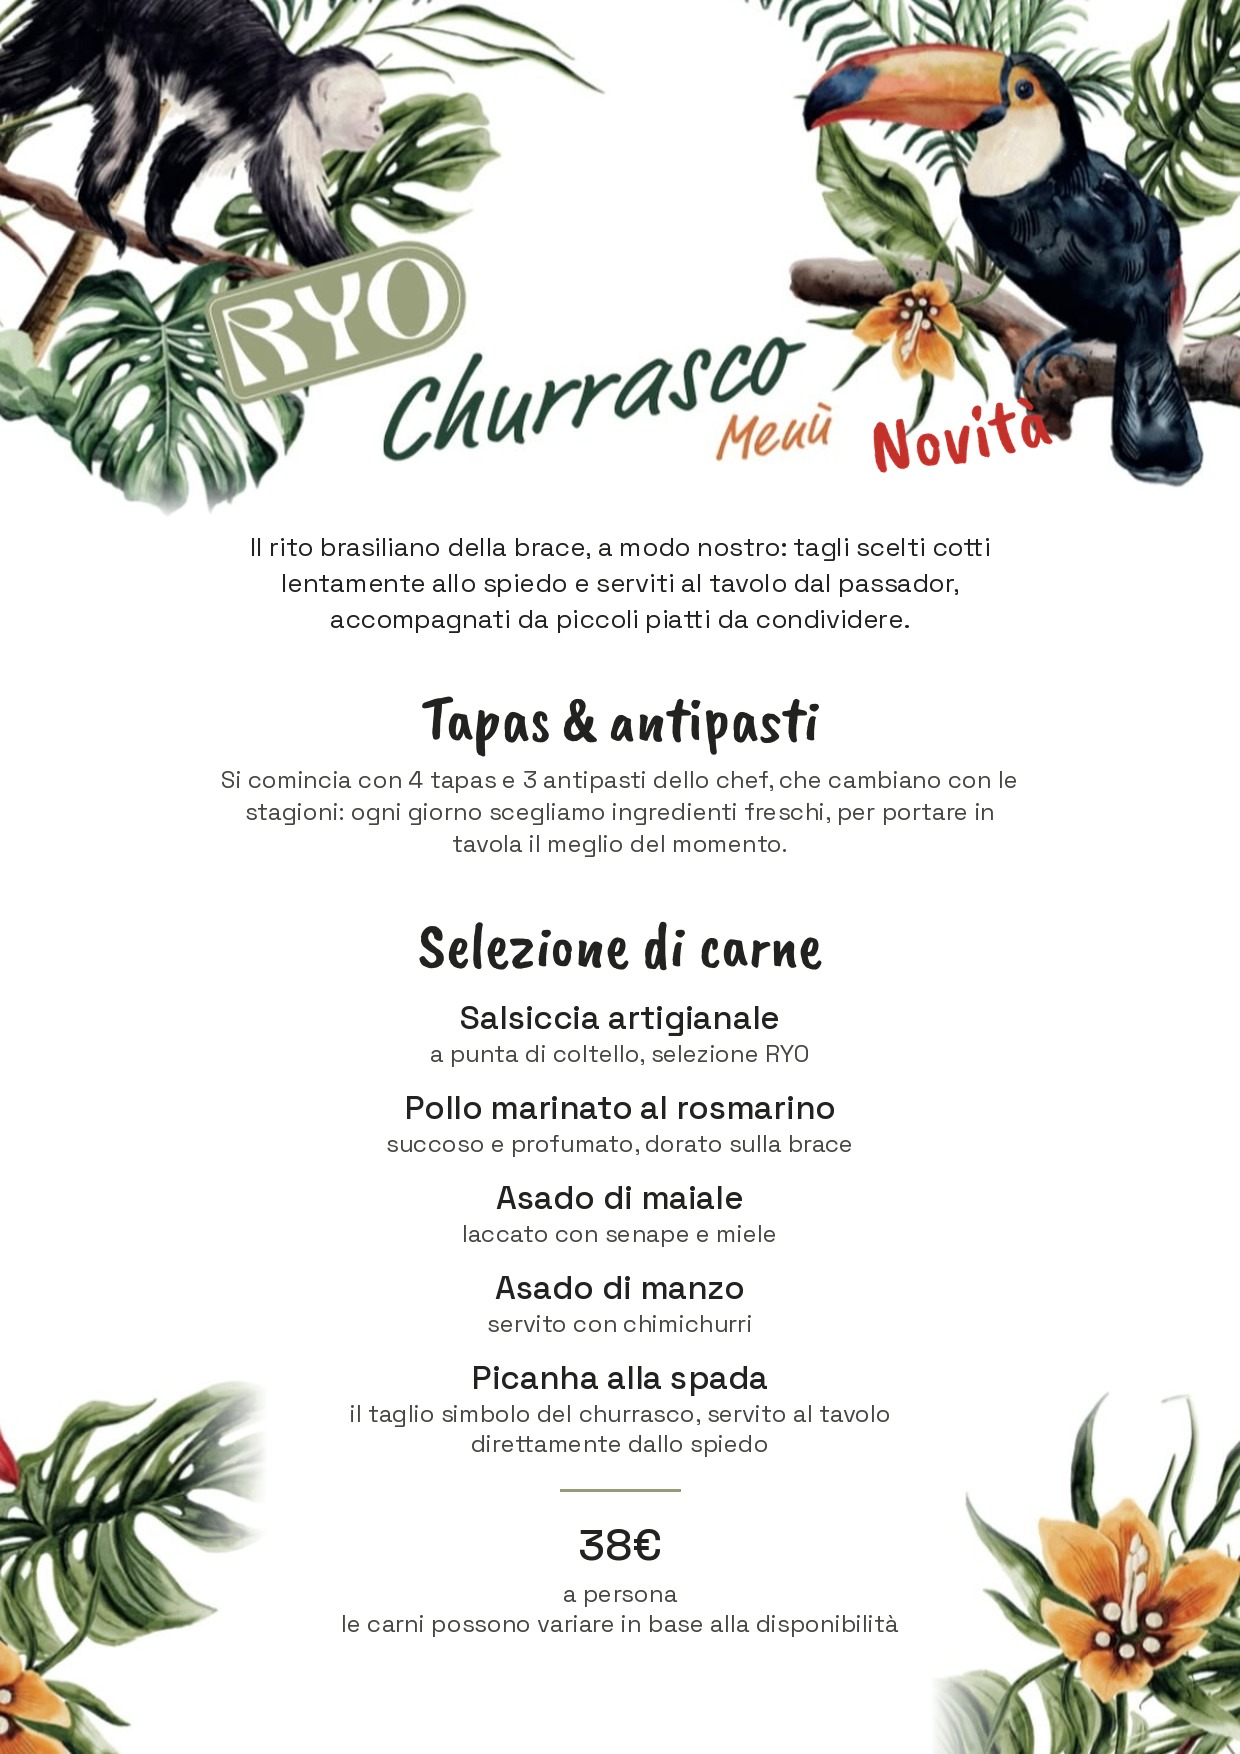
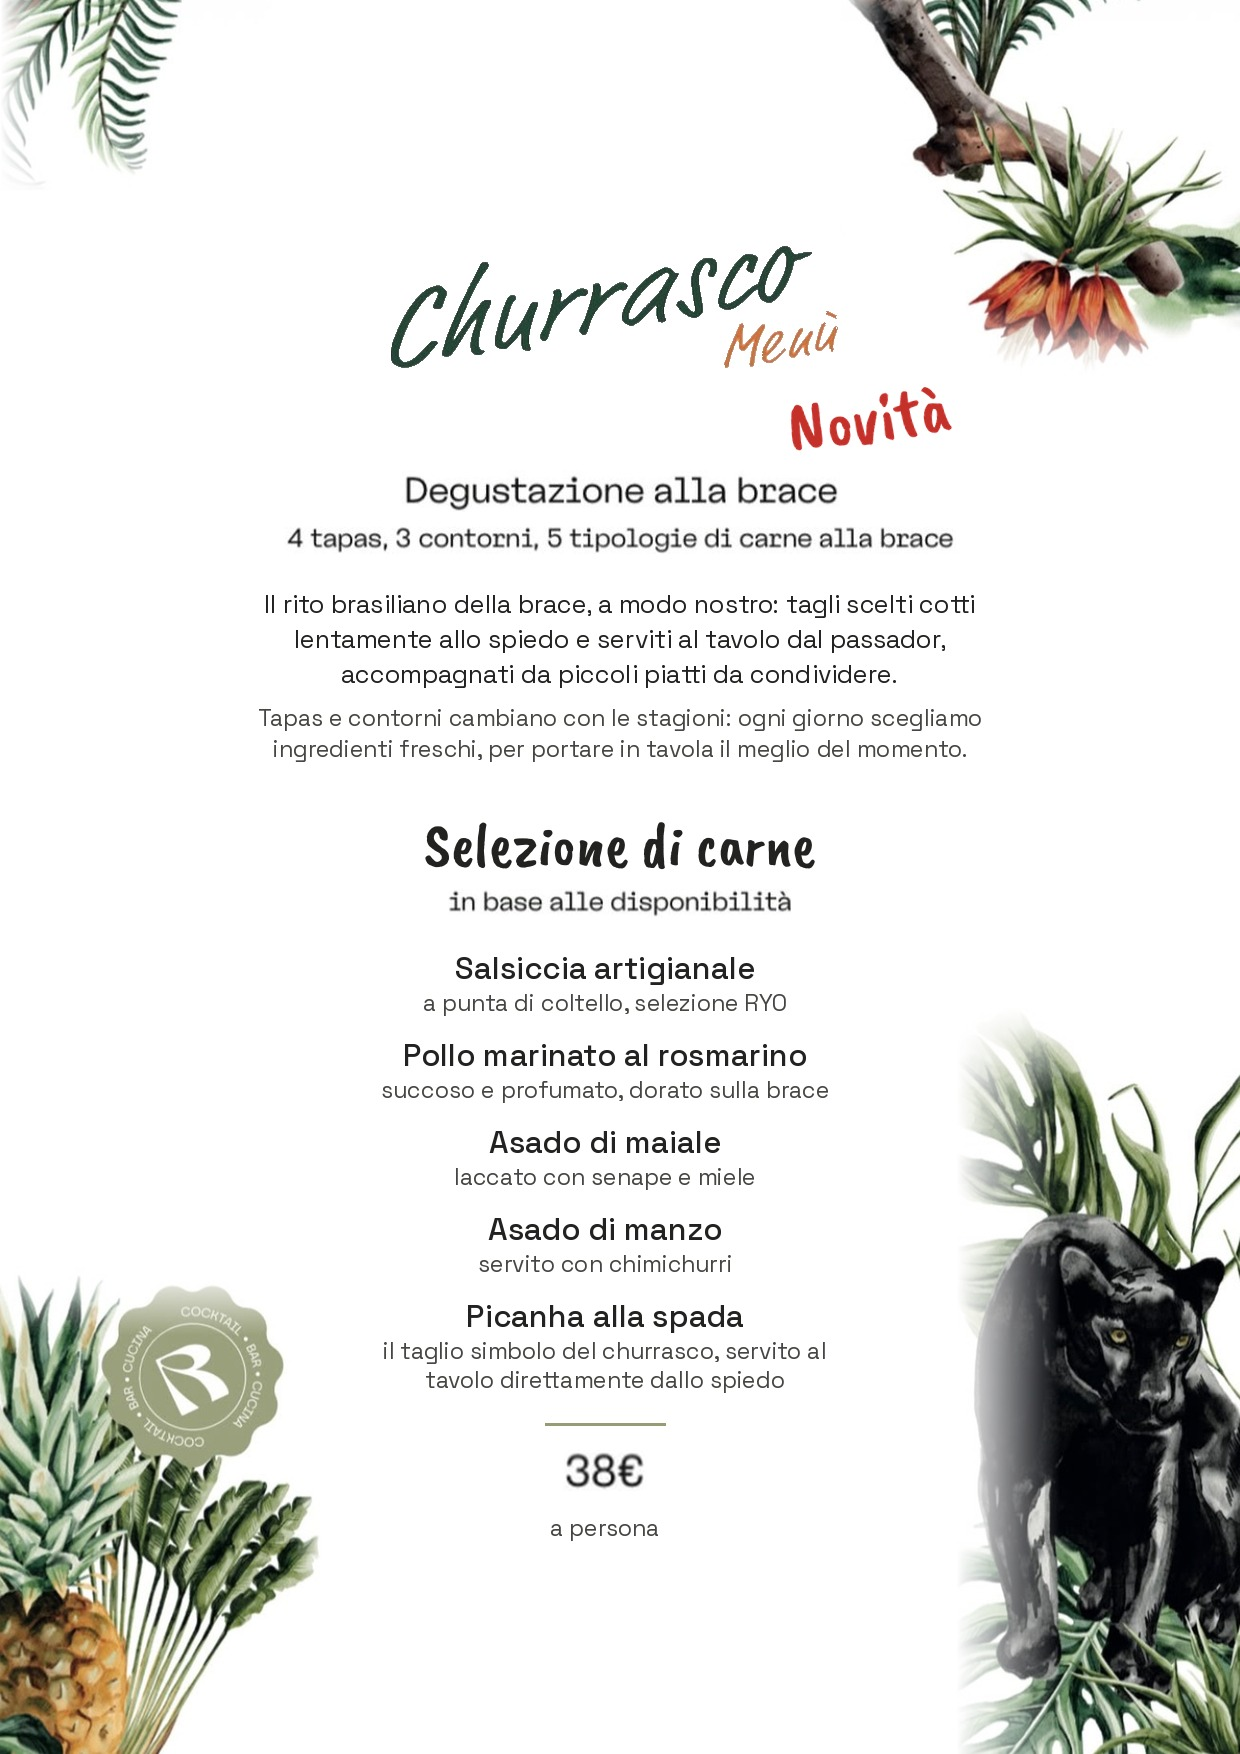
Menu Churrasco: pantera al posto di scimmia e tucano, righe originali del vecchio menu, decorazioni sfumate
Claude-Session: https://claude.ai/code/session_01TYJfJFwrL1SFJdaVhPFhyR

diff --git a/ryo-web/scripts/menu-churrasco.py b/ryo-web/scripts/menu-churrasco.py
@@ -1,13 +1,14 @@
 """
-Menu Churrasco in una pagina, nello stile del menu à la carte: l'intestazione originale
-(scimmia, tucano, timbro RYO, «Churrasco Menù»), la scritta «Novità» in rosso, un'intro sul
-concept, tapas e antipasti di stagione, la selezione di carni e il prezzo. In basso le foglie e
-il fiore arancio delle altre pagine del menu.
+Menu Churrasco in una pagina, nello stile del menu à la carte: stessi acquerelli (qui la pantera
+e l'ananas col sigillo RYO della pagina Dulce, il ramo con i fiori rossi e le palme), la scritta
+«Churrasco Menù» e le righe del vecchio menu (degustazione, 4 tapas e 3 contorni, prezzo),
+«Novità» in rosso, un'intro sul concept e la selezione di carni.
 
   python3 scripts/menu-churrasco.py   (scrive scripts/menu-pdf/churrasco-menu.jpg)
 """
 from pathlib import Path
 
+import numpy as np
 from PIL import Image, ImageChops, ImageDraw, ImageFont
 
 ROOT = Path(__file__).resolve().parent.parent
@@ -18,15 +19,15 @@ OUT = PAGES / "churrasco-menu.jpg"
 INK = (34, 34, 32)  # testi del menu
 SOFT = (70, 70, 66)  # descrizioni
 RED = (196, 48, 42)
-OLIVE = (152, 156, 118)  # come le icone e il timbro
+OLIVE = (152, 156, 118)  # come le icone e il sigillo
 
 INTRO = (
     "Il rito brasiliano della brace, a modo nostro: tagli scelti cotti lentamente allo spiedo "
     "e serviti al tavolo dal passador, accompagnati da piccoli piatti da condividere."
 )
 STAGIONE = (
-    "Si comincia con 4 tapas e 3 antipasti dello chef, che cambiano con le stagioni: "
-    "ogni giorno scegliamo ingredienti freschi, per portare in tavola il meglio del momento."
+    "Tapas e contorni cambiano con le stagioni: ogni giorno scegliamo ingredienti freschi, "
+    "per portare in tavola il meglio del momento."
 )
 CARNI = [
     ("Salsiccia artigianale", "a punta di coltello, selezione RYO"),
@@ -49,90 +50,119 @@ def wrap(draw, text, font, width):
     return lines + [cur]
 
 
+def soften(piece, top=0, bottom=0, left=0, right=0):
+    """Sfuma nel bianco i lati indicati, così le decorazioni ritagliate non mostrano il taglio."""
+    a = np.asarray(piece).astype(float)
+    h, w = a.shape[:2]
+    k = np.ones((h, w))
+    for n, axis, rev in ((top, 0, False), (bottom, 0, True), (left, 1, False), (right, 1, True)):
+        if not n:
+            continue
+        ramp = np.clip(np.arange(h if axis == 0 else w) / n, 0, 1)
+        ramp = ramp[::-1] if rev else ramp
+        k *= ramp[:, None] if axis == 0 else ramp[None, :]
+    a = 255 - (255 - a) * k[..., None]
+    return Image.fromarray(a.astype(np.uint8))
+
+
 def main():
     p1 = Image.open(PAGES / "pagina-1.jpg").convert("RGB")
-    p2 = Image.open(PAGES / "pagina-2.jpg").convert("RGB")
     p3 = Image.open(PAGES / "pagina-3.jpg").convert("RGB")
+    p4 = Image.open(PAGES / "pagina-4.jpg").convert("RGB")
     W, H = p1.size
     page = Image.new("RGB", (W, H), "white")
-    page.paste(p1.crop((0, 0, W, 520)), (0, 0))  # intestazione originale con «Churrasco Menù»
-    page.paste(Image.new("RGB", (450, 50), "white"), (395, 470))  # via l'inizio di «Degustazione alla brace»
-    fade = Image.linear_gradient("L").resize((W, 50))  # foglie e coda del tucano sfumano nel bianco
-    page.paste(Image.new("RGB", (W, 50), "white"), (0, 470), fade)
 
-    def deco(src, box, at, soft=110, side=None):
-        """Decorazione presa da un'altra pagina: il bordo alto sfuma nel bianco, così non si vede il taglio."""
-        piece = src.crop(box)
-        white = Image.new("RGB", piece.size, "white")
-        mask = Image.linear_gradient("L").rotate(180).resize((piece.width, soft))
-        white.paste(piece.crop((0, soft, piece.width, piece.height)), (0, soft))
-        white.paste(piece.crop((0, 0, piece.width, soft)), (0, 0), Image.eval(mask, lambda v: 255 - v))
-        if side:  # anche il bordo laterale verso il testo sfuma
-            sm = Image.linear_gradient("L").rotate(90 if side == "right" else -90).resize((90, piece.height))
-            x = piece.width - 90 if side == "right" else 0
-            white.paste(Image.new("RGB", (90, piece.height), "white"), (x, 0), sm)
+    def deco(piece, at, scale=1.0):
+        if scale != 1:
+            piece = piece.resize((round(piece.width * scale), round(piece.height * scale)), Image.LANCZOS)
         layer = Image.new("RGB", (W, H), "white")
-        layer.paste(white, at)
+        layer.paste(piece, at)
         return ImageChops.multiply(page, layer)
 
-    page = deco(p3, (0, 1290, 268, H), (0, 1290), side="right")  # monstera in basso a sinistra
-    page = deco(p2, (930, 1360, W, H), (930, 1360), side="left")  # fiore arancio in basso a destra
+    S = 0.8  # le decorazioni un po' più piccole della pagina Dulce, per lasciare spazio al testo
+    # in alto: ramo con i fiori rossi a destra, palme a sinistra (dalla pagina dei Primi, specchiate)
+    flower = soften(p4.crop((740, 0, W, 470)), bottom=90, left=60)
+    page = deco(flower, (W - round(flower.width * S), 0), S)
+    # solo le foglie, sopra il titolo «Riso amazzonico» della pagina dei Primi
+    palms = soften(p3.crop((900, 0, W, 240)), bottom=90, right=70).transpose(Image.FLIP_LEFT_RIGHT)
+    page = deco(palms, (0, 0), S)
+    # in basso: pantera tra le foglie a destra, ananas col sigillo RYO a sinistra
+    panther = soften(p4.crop((885, 820, W, H)), top=110, left=130)  # da x 885: niente lettere dei dolci
+    page = deco(panther, (W - round(panther.width * S), H - round(panther.height * S)), S)
+    pine = soften(p4.crop((0, 1140, 410, H)), top=90, right=40)
+    page = deco(pine, (0, H - round(pine.height * S)), S)
+
+    # «Churrasco Menù» dell'intestazione originale: solo le lettere, senza il timbro e le foglie dietro
+    t = np.asarray(p1.crop((378, 322, 848, 474))).astype(int)
+    lum = t.mean(axis=2)
+    letters = (lum < 115) | ((t[..., 0] > 175) & (t[..., 1] < 175) & (t[..., 2] < 150) & (t[..., 0] - t[..., 2] > 60))
+    t[~letters] = 255
+    t[:80, 430:] = 255  # un ramo del tucano dopo la «o» di Churrasco
+    title = Image.fromarray(t.astype(np.uint8))
+    page = deco(title, (round(W / 2 - title.width / 2), 230))
 
     d = ImageDraw.Draw(page)
-    brush = ImageFont.truetype(str(FONTS / "CaveatBrush-Regular.ttf"), 78)
-    head = ImageFont.truetype(str(FONTS / "CaveatBrush-Regular.ttf"), 64)
-    name = ImageFont.truetype(str(FONTS / "SpaceGrotesk-Medium.ttf"), 33)
-    desc = ImageFont.truetype(str(FONTS / "SpaceGrotesk-Regular.ttf"), 24)
-    body = ImageFont.truetype(str(FONTS / "SpaceGrotesk-Regular.ttf"), 26)
+    brush = ImageFont.truetype(str(FONTS / "CaveatBrush-Regular.ttf"), 70)
+    head = ImageFont.truetype(str(FONTS / "CaveatBrush-Regular.ttf"), 62)
+    name = ImageFont.truetype(str(FONTS / "SpaceGrotesk-Medium.ttf"), 31)
+    desc = ImageFont.truetype(str(FONTS / "SpaceGrotesk-Regular.ttf"), 23)
+    body = ImageFont.truetype(str(FONTS / "SpaceGrotesk-Regular.ttf"), 25)
     price = ImageFont.truetype(str(FONTS / "SpaceGrotesk-Medium.ttf"), 44)
     cx = W / 2
 
-    def centred(y, text, font, fill):
-        d.text((cx, y), text, font=font, fill=fill, anchor="ma")
+    def centred(y, text, font, fill, x=None):
+        d.text((cx if x is None else x, y), text, font=font, fill=fill, anchor="ma")
 
-    # «Novità» in rosso, inclinato come le scritte a pennello del menu
-    t = Image.new("RGBA", (360, 140), (0, 0, 0, 0))
-    ImageDraw.Draw(t).text((10, 10), "Novità", font=brush, fill=RED)
-    t = t.rotate(10, resample=Image.BICUBIC, expand=True)
-    page.paste(t, (850, 330), t)
+    # «Novità» in rosso, sotto «Menù» e un po' inclinato come le scritte a pennello
+    nv = Image.new("RGBA", (330, 130), (0, 0, 0, 0))
+    ImageDraw.Draw(nv).text((10, 10), "Novità", font=brush, fill=RED)
+    nv = nv.rotate(8, resample=Image.BICUBIC, expand=True)
+    page.paste(nv, (round(cx + 150), 330), nv)
 
-    y = 530
-    for line in wrap(d, INTRO, body, 860):
+    def original(box, y, x=None, scale=1.0):
+        """Una riga del vecchio menu, presa così com'è: stesso carattere del grafico."""
+        nonlocal page, d
+        piece = p1.crop(box)
+        if scale != 1:
+            piece = piece.resize((round(piece.width * scale), round(piece.height * scale)), Image.LANCZOS)
+        page = deco(piece, (round((cx if x is None else x) - piece.width / 2), round(y)))
+        d = ImageDraw.Draw(page)
+        return piece.height
+
+    y = 470
+    y += original((398, 482, 838, 524), y) + 14  # «Degustazione alla brace»
+    y += original((283, 527, 955, 555), y) + 34  # «4 tapas, 3 contorni, 5 tipologie di carne alla brace»
+    for line in wrap(d, INTRO, body, 820):
         centred(y, line, body, INK)
-        y += 36
-
-    # tapas e antipasti
-    y += 40
-    centred(y, "Tapas & antipasti", head, INK)
-    y += 86
-    for line in wrap(d, STAGIONE, desc, 820):
+        y += 35
+    y += 10
+    for line in wrap(d, STAGIONE, desc, 780):
         centred(y, line, desc, SOFT)
-        y += 32
+        y += 31
 
-    # carni
-    y += 44
+    y += 40
     centred(y, "Selezione di carne", head, INK)
-    y += 92
+    y += 84
+    y += original((193, 560, 536, 589), y) + 30  # «in base alle disponibilità» del vecchio menu
+    col = 605  # sotto, il testo resta tra l'ananas e la pantera
     for n, info in CARNI:
-        centred(y, n, name, INK)
-        y += 42
-        for line in wrap(d, info, desc, 560):
-            centred(y, line, desc, SOFT)
-            y += 30
+        centred(y, n, name, INK, col)
+        y += 40
+        for line in wrap(d, info, desc, 500):
+            centred(y, line, desc, SOFT, col)
+            y += 29
         y += 18
 
-    # prezzo, con il filo oliva del timbro
-    y += 14
-    d.line((cx - 60, y, cx + 60, y), fill=OLIVE, width=3)
+    y += 12
+    d.line((col - 60, y, col + 60, y), fill=OLIVE, width=3)
     y += 26
-    centred(y, "38€", price, INK)
-    y += 62
-    centred(y, "a persona", desc, SOFT)
-    y += 30
-    centred(y, "le carni possono variare in base alla disponibilità", desc, SOFT)
+    y += original((588, 612, 652, 641), y, col, 1.4) + 22  # «38€» del vecchio menu
+    centred(y, "a persona", desc, SOFT, col)
+    y += 29
+
 
     page.save(OUT, quality=92)
-    print("creato", OUT, "fine testo a y", y + 30)
+    print("creato", OUT, "fine testo a y", y)
 
 
 if __name__ == "__main__":
